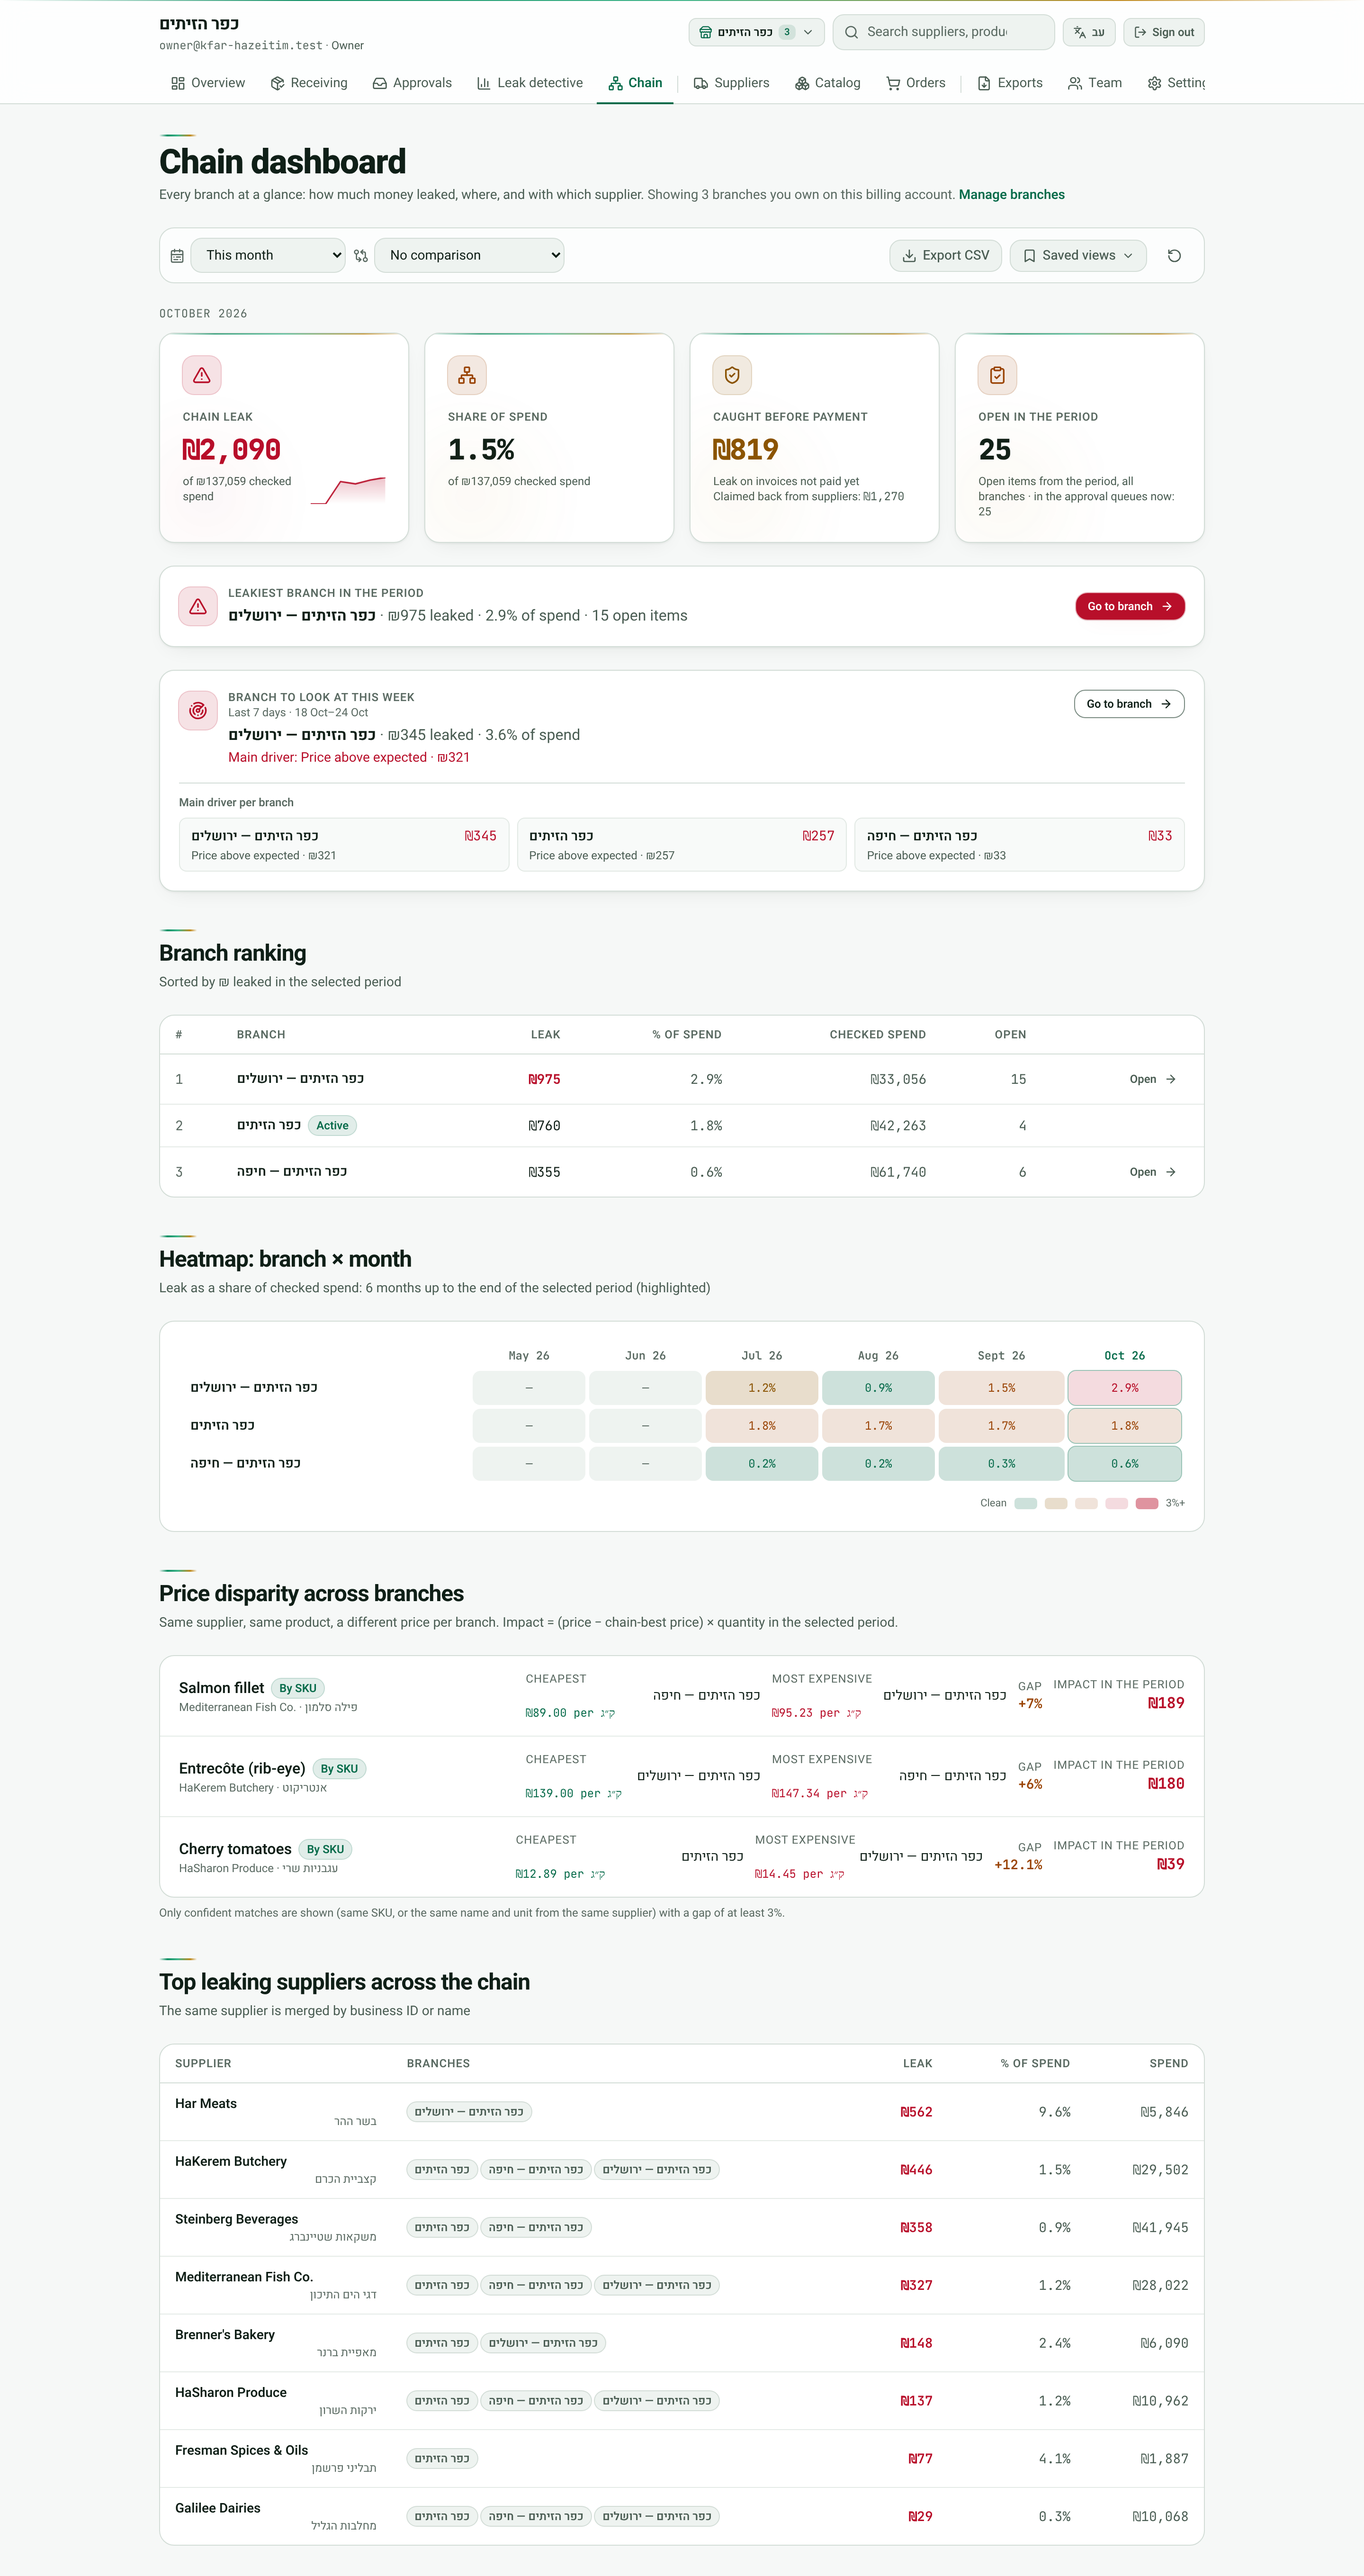
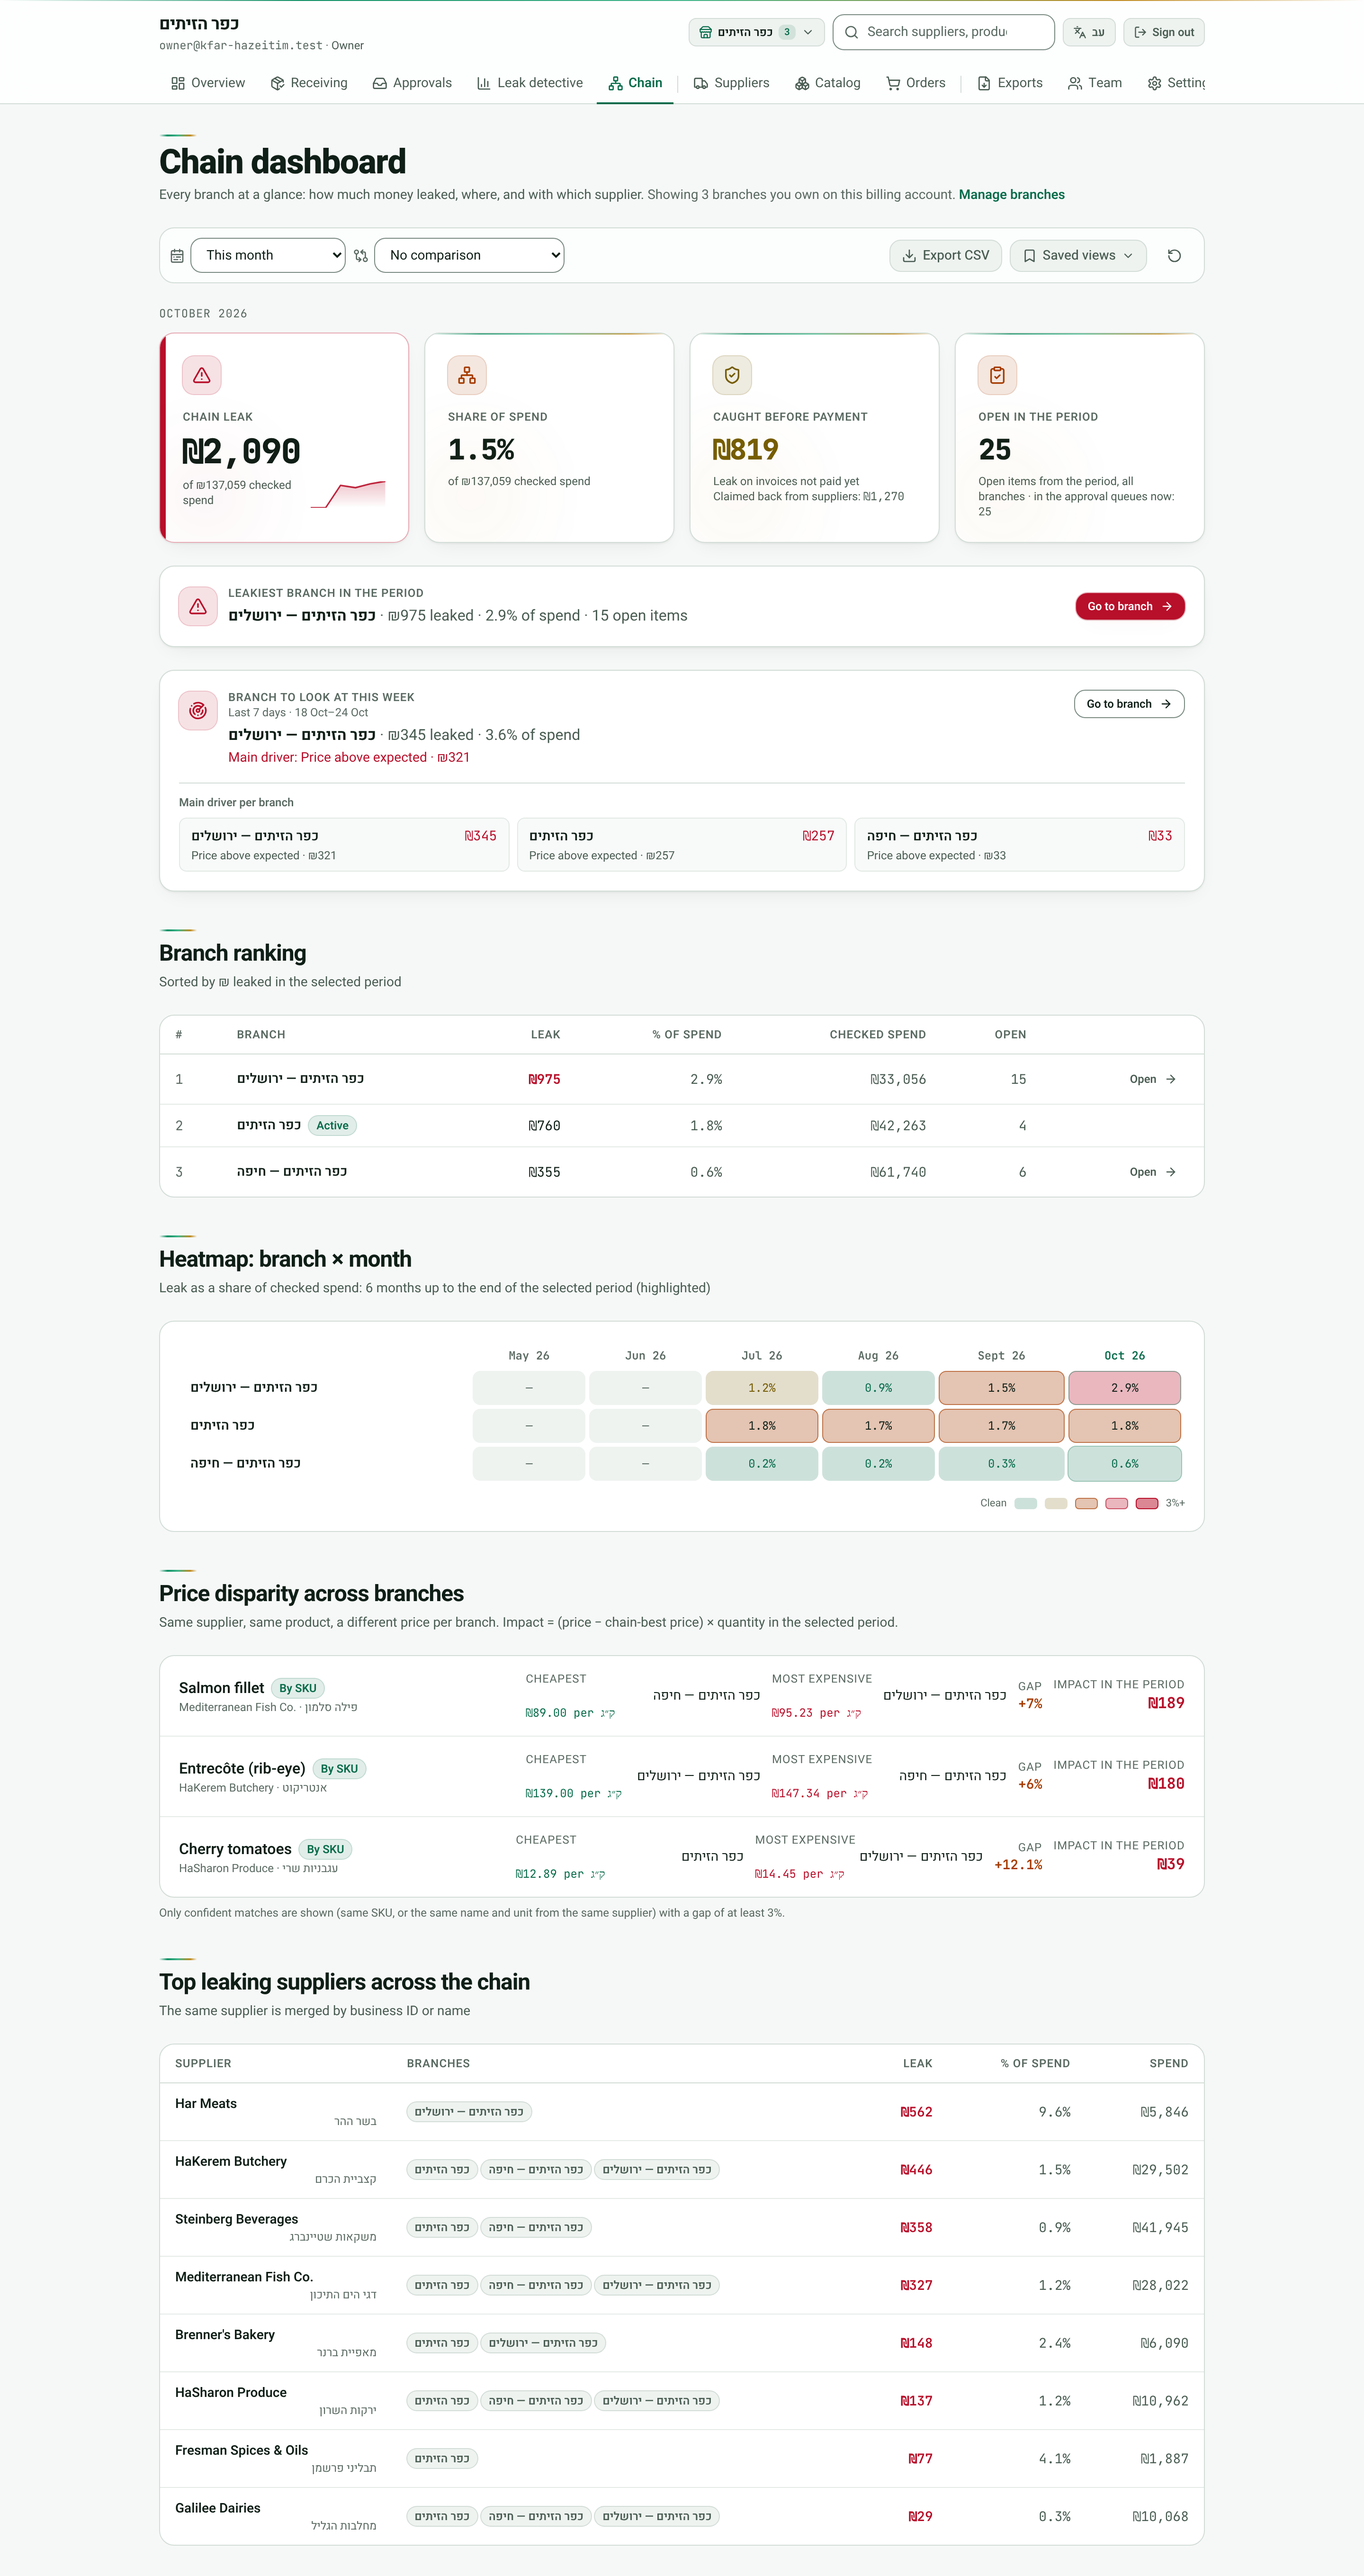
feat(promo): re-capture after #87 (gold #755C00, warn #A63D00, chain bands, T1 recipe); film gold follows the product
Claude-Session: https://claude.ai/code/session_01AJ62ghtXmK8tvXufzwDoX7

Changed region(s): [[0.5, 0.5283, 0.875, 0.5905], [0.0938, 0.1243, 0.2188, 0.2175]]

diff --git a/tools/promo/src/theme.ts b/tools/promo/src/theme.ts
@@ -31,7 +31,7 @@ const LIGHT_STAGE: typeof DARK = {
   subtle: '#6B7C73',
   primary: '#066B4A',
   onPrimary: '#FFFFFF',
-  gold: '#8A5300',
+  gold: '#755C00',
   danger: '#B80F2A',
   paper: '#FFFFFF',
   paperInk: '#22261F',
@@ -55,7 +55,7 @@ export const LIGHT = {
   ink: '#0F1F17',
   muted: '#4A5D53',
   primary: '#066B4A',
-  gold: '#8A5300',
+  gold: '#755C00',
   danger: '#B80F2A',
 } as const;
 

diff --git a/tools/promo/STORYBOARD.md b/tools/promo/STORYBOARD.md
@@ -15,7 +15,7 @@ stage colour instead of dimmed). `STAGE=dark node render.mjs …` still renders 
 
 Motion language: one easing family (expo-out `bezier(.16,1,.3,1)` for entrances, `bezier(.65,0,.35,1)`
 for camera moves), three accents matching the light product's AA tokens — primary `#066B4A` (product /
-positive), danger `#B80F2A` (leak), gold `#8A5300` (caught / new); dark stage: `#22D39A` / `#FF5C7A` /
+positive), danger `#B80F2A` (leak), gold `#755C00` (caught / new); dark stage: `#22D39A` / `#FF5C7A` /
 `#E0B341`. Heebo + JetBrains Mono, the app's own files.
 
 ## Beats
@@ -49,7 +49,7 @@ with `DEMO_TODAY=2026-10-25`), month **October 2026**, and appear on the real sc
 | 1.8% of ₪42,263 | same hero ("1.8% מההוצאה על סחורה · מתוך ₪42,263 לפני מע״מ"); 760 / 42,263 = 1.80% |
 | ₪296 caught before payment | hero card "נתפס לפני תשלום"; seed log "caught before payment ₪296" |
 | ₪464 claimed from suppliers | hero card "נדרש מהספקים" (accepted to claim back). Shown as *claimed*, not "recovered" |
-| Chain: leakiest branch ירושלים 975 ₪ = 2.9%, חיפה 355 ₪ = 0.6% (chain 2,089 ₪ = 1.5% of 137,059 ₪) | `/dashboard/chain` capture `public/shots/chain-he.png` after `pnpm --filter @restomatch/worker seed:chain-demo` (same `DEMO_TODAY`; base branch unchanged at ₪760) |
+| Chain: leakiest branch ירושלים 975 ₪ = 2.9%, חיפה 355 ₪ = 0.6% (chain 2,090 ₪ = 1.5% of 137,059 ₪) | `/dashboard/chain` capture `public/shots/chain-he.png` after `pnpm --filter @restomatch/worker seed:chain-demo` (same `DEMO_TODAY`; base branch unchanged at ₪760) |
 | 104.80 ₪ (approvals card / claim total) | `/dashboard/approvals` first card "ההפסד המוערך 104.80 ₪" (beer keg, Steinberg, invoice ST-24108) and `/dashboard/leaks/claims` "סה״כ לזיכוי 104.80 ₪" |
 | 13 of 35 invoices flagged | hero card "חשבוניות עם חריגה 13 מתוך 35" (not used on screen beyond the real UI) |
 | Beer keg ₪520 → ₪575 (+10.6%) | `/dashboard/leaks` table row "בירה מהחבית — חבית 30 ל׳", median ₪520.00 / latest ₪575.00 / +10.6% |

diff --git a/docs/client-ready/reports/promo.md b/docs/client-ready/reports/promo.md
@@ -98,7 +98,7 @@ I rendered stills across the whole timeline and reviewed each one. Fixes made fr
 
 The owner decided that the whole product goes light (#77), so the film follows:
 - **Stage:** soft light stage, silver laptop and phone, the app's own light screens. Accents use the light
-  product's AA tokens (primary `#066B4A`, danger `#B80F2A`, gold `#8A5300`).
+  product's AA tokens (primary `#066B4A`, danger `#B80F2A`, gold `#755C00`).
 - **Spotlight:** on a light stage, dimming the outside reads as a grey cast. The outside is now blurred and
   washed toward the stage colour (a light fog) with a faint vignette. The lifted card keeps the same
   accent outline and glow as the dark cut.
